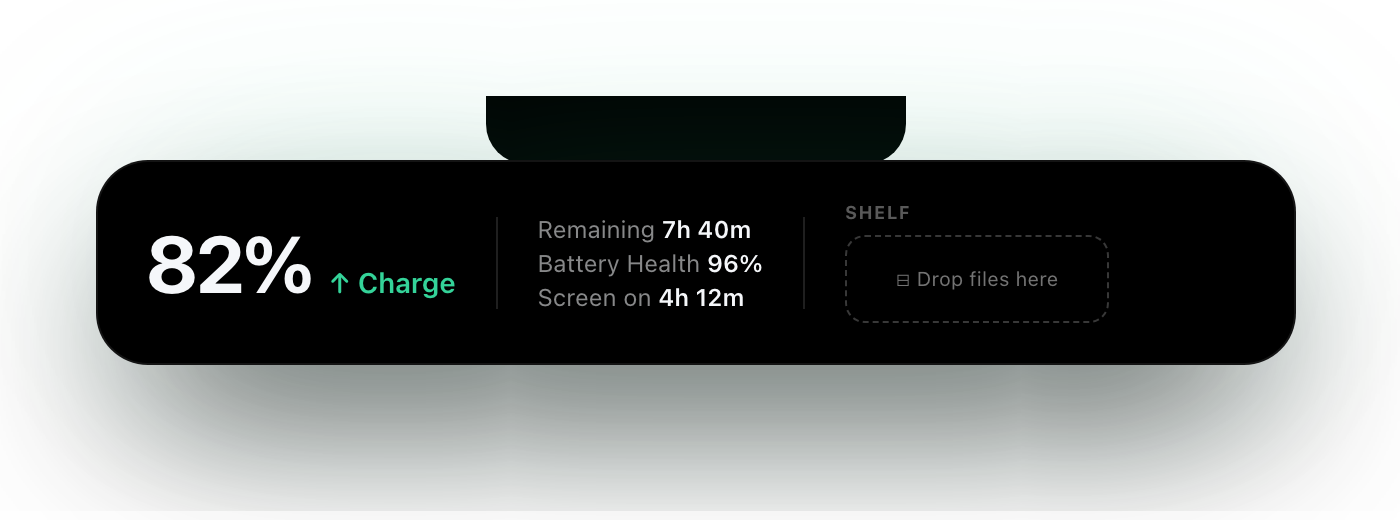
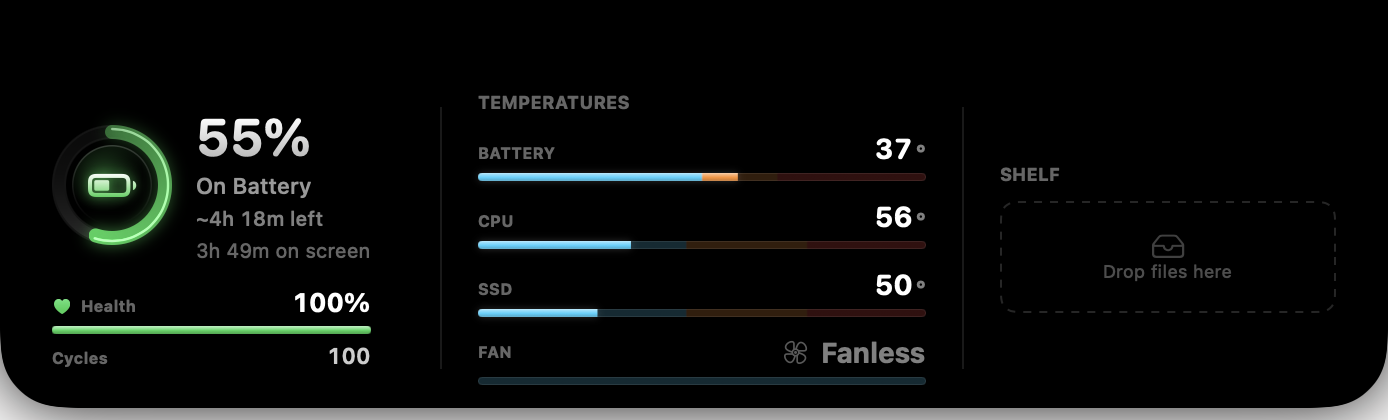
docs(readme): show the 3D Mac model and new shots
Add a section on the live 3D model to all five READMEs with an
animated preview linking to the full video, and replace the panel,
settings and Dynamic Island screenshots with ones from 1.94.

diff --git a/README.ja.md b/README.ja.md
@@ -10,6 +10,20 @@
 
 ---
 
+## 🧊 Mac のライブ 3D モデル
+
+<p align="center">
+  <a href="https://jarvis322.github.io/MacWake/media/macwake-3d.mp4"><img src="Screenshots/macwake-3d.gif" alt="MacWake 3D Mac model" width="720"></a>
+</p>
+
+<p align="center"><a href="https://jarvis322.github.io/MacWake/media/macwake-3d.mp4">▶ 動画をすべて見る</a></p>
+
+1.94 の新機能：パネルが**お使いの Mac の 3D モデル**で開くようになりました。バッテリーセルは充電量に応じて満ち、チップと SSD は温度に応じて光り、ファンは実際の速度で回転し、充電中は MagSafe のケーブル、LED、流れ込む電流が表示されます。**パーツをクリック**するとズームしてリアルタイムの値を表示し、**ドラッグ**でモデルを回転できます。
+
+お使いの Mac を検出し、Apple の公表寸法で描画します——MacBook Air、MacBook Pro 13/14/16 インチ、Mac mini、Mac Studio、iMac——ノッチはご自身の画面から計測します。macOS は本体カラーを記録しないため、ディスプレイをクリックして色を選べます。
+
+---
+
 ## 🖥 Dynamic Island とメニューバー
 
 ノッチ内には **Dynamic Island** があり、折りたたみ時はハードウェアになじみます。ホバーまたはクリックすると弾むようなスプリング動作で展開し、触覚フィードバックを返します。リアルタイムの電力、バッテリーの健全性、バッテリー温度を表示するほか、ウィジェット、セッションのリセット、アニメーション、通知のクイック切り替えも利用できます。

diff --git a/README.ko.md b/README.ko.md
@@ -10,6 +10,20 @@
 
 ---
 
+## 🧊 내 Mac의 실시간 3D 모델
+
+<p align="center">
+  <a href="https://jarvis322.github.io/MacWake/media/macwake-3d.mp4"><img src="Screenshots/macwake-3d.gif" alt="MacWake 3D Mac model" width="720"></a>
+</p>
+
+<p align="center"><a href="https://jarvis322.github.io/MacWake/media/macwake-3d.mp4">▶ 전체 영상 보기</a></p>
+
+1.94의 새 기능: 패널이 이제 **내 Mac의 3D 모델**로 열립니다. 배터리 셀은 충전량에 따라 차오르고, 칩과 SSD는 온도에 따라 빛나며, 팬은 실제 속도로 회전하고, 충전 중에는 MagSafe 케이블과 LED, 흘러드는 전류가 표시됩니다. **부품을 클릭**하면 확대되어 실시간 값을 보여 주고, **드래그**하면 모델을 돌릴 수 있습니다.
+
+Mac을 감지해 Apple이 공개한 치수로 그립니다 — MacBook Air, MacBook Pro 13/14/16형, Mac mini, Mac Studio, iMac — 노치는 내 화면에서 측정합니다. macOS는 본체 색상을 기록하지 않으므로 디스플레이를 클릭해 색상을 고르세요.
+
+---
+
 ## 🖥 Dynamic Island 및 메뉴 막대
 
 노치 안의 **Dynamic Island**는 접힌 상태에서 하드웨어와 자연스럽게 어우러집니다. 포인터를 올리거나 클릭하면 탄력 있는 스프링 효과로 펼쳐지고 햅틱 피드백을 제공합니다. 실시간 전력, 배터리 성능 상태 및 배터리 온도를 표시하며 위젯, 세션 초기화, 애니메이션 및 알림을 위한 빠른 토글도 제공합니다.

diff --git a/README.tr.md b/README.tr.md
@@ -10,6 +10,20 @@
 
 ---
 
+## 🧊 Mac'inin Canlı 3D Modeli
+
+<p align="center">
+  <a href="https://jarvis322.github.io/MacWake/media/macwake-3d.mp4"><img src="Screenshots/macwake-3d.gif" alt="MacWake 3D Mac model" width="720"></a>
+</p>
+
+<p align="center"><a href="https://jarvis322.github.io/MacWake/media/macwake-3d.mp4">▶ Videonun tamamını izle</a></p>
+
+1.94'te yeni: panel artık **kendi Mac'inin 3D modeliyle** açılıyor. Pil hücreleri şarjla doluyor, çip ve SSD sıcaklığa göre parlıyor, fan gerçek hızında dönüyor ve şarj olurken MagSafe kablosu, ledi ve içeri akan enerji görünüyor. **Bir parçaya tıkla**, kamera yaklaşıp canlı değerini göstersin; modeli **sürükleyerek** çevir.
+
+Mac'in algılanıyor ve Apple'ın açıkladığı ölçülerle çiziliyor — MacBook Air, MacBook Pro 13/14/16 inç, Mac mini, Mac Studio ve iMac — çentik de kendi ekranından ölçülüyor. macOS kasa rengini kaydetmediği için rengini ekrana tıklayıp seçebilirsin.
+
+---
+
 ## 🖥 Dynamic Island ve Menü Çubuğu
 
 Çentikte bir **Dynamic Island** yer alır: daraltılmış durumdayken donanımla bütünleşir, imleç üzerine geldiğinde veya tıklandığında esnek bir yay hareketiyle genişler ve dokunsal geri bildirim verir. Canlı güç değerlerini, pil sağlığını ve pil sıcaklığını gösterirken araç takımı, oturum sıfırlama, animasyonlar ve bildirimler için hızlı anahtarlar da sunar.

diff --git a/README.zh-Hans.md b/README.zh-Hans.md
@@ -10,6 +10,20 @@
 
 ---
 
+## 🧊 你的 Mac 的实时 3D 模型
+
+<p align="center">
+  <a href="https://jarvis322.github.io/MacWake/media/macwake-3d.mp4"><img src="Screenshots/macwake-3d.gif" alt="MacWake 3D Mac model" width="720"></a>
+</p>
+
+<p align="center"><a href="https://jarvis322.github.io/MacWake/media/macwake-3d.mp4">▶ 观看完整视频</a></p>
+
+1.94 新功能：面板现在以**你自己的 Mac 的 3D 模型**打开。电池电芯随电量充满，芯片和 SSD 按温度发光，风扇以真实转速旋转，充电时 MagSafe 会显示线缆、指示灯和流入的电流。**点击部件**即可放大查看实时读数；**拖动**可旋转模型。
+
+会识别你的 Mac 并按 Apple 公布的尺寸绘制——MacBook Air、13/14/16 英寸 MacBook Pro、Mac mini、Mac Studio 和 iMac——刘海按你自己的屏幕测量。macOS 不记录机身颜色，点击显示屏即可选择你的颜色。
+
+---
+
 ## 🖥 Dynamic Island 与菜单栏
 
 **Dynamic Island** 位于刘海区域：收起时与硬件融为一体，悬停或点击时通过富有弹性的弹簧动效展开，并提供触觉反馈。它会呈现实时功率、电池健康状况和电池温度，同时提供桌面小组件、会话重置、动画和通知的快捷开关。

diff --git a/README.md b/README.md
@@ -10,6 +10,20 @@
 
 ---
 
+## 🧊 A Live 3D Model of Your Mac
+
+<p align="center">
+  <a href="https://jarvis322.github.io/MacWake/media/macwake-3d.mp4"><img src="Screenshots/macwake-3d.gif" alt="MacWake 3D Mac model" width="720"></a>
+</p>
+
+<p align="center"><a href="https://jarvis322.github.io/MacWake/media/macwake-3d.mp4">▶ Watch the full video</a></p>
+
+New in 1.94: the panel opens on a **3D model of your own Mac**. Battery cells fill with the charge, the chip and SSD glow by temperature, the fan spins at its real speed, and MagSafe shows the cable, its LED and current flowing in while charging. **Click a part** to fly in and read it live; **drag** to turn the model.
+
+Your Mac is detected and drawn to Apple's published dimensions — MacBook Air, MacBook Pro 13/14/16-inch, Mac mini, Mac Studio and iMac — with the notch measured from your own screen. macOS doesn't record the enclosure colour, so click the display to pick yours.
+
+---
+
 ## 🖥 Dynamic Island & Menu Bar
 
 A **Dynamic Island** lives in the notch: it stays
